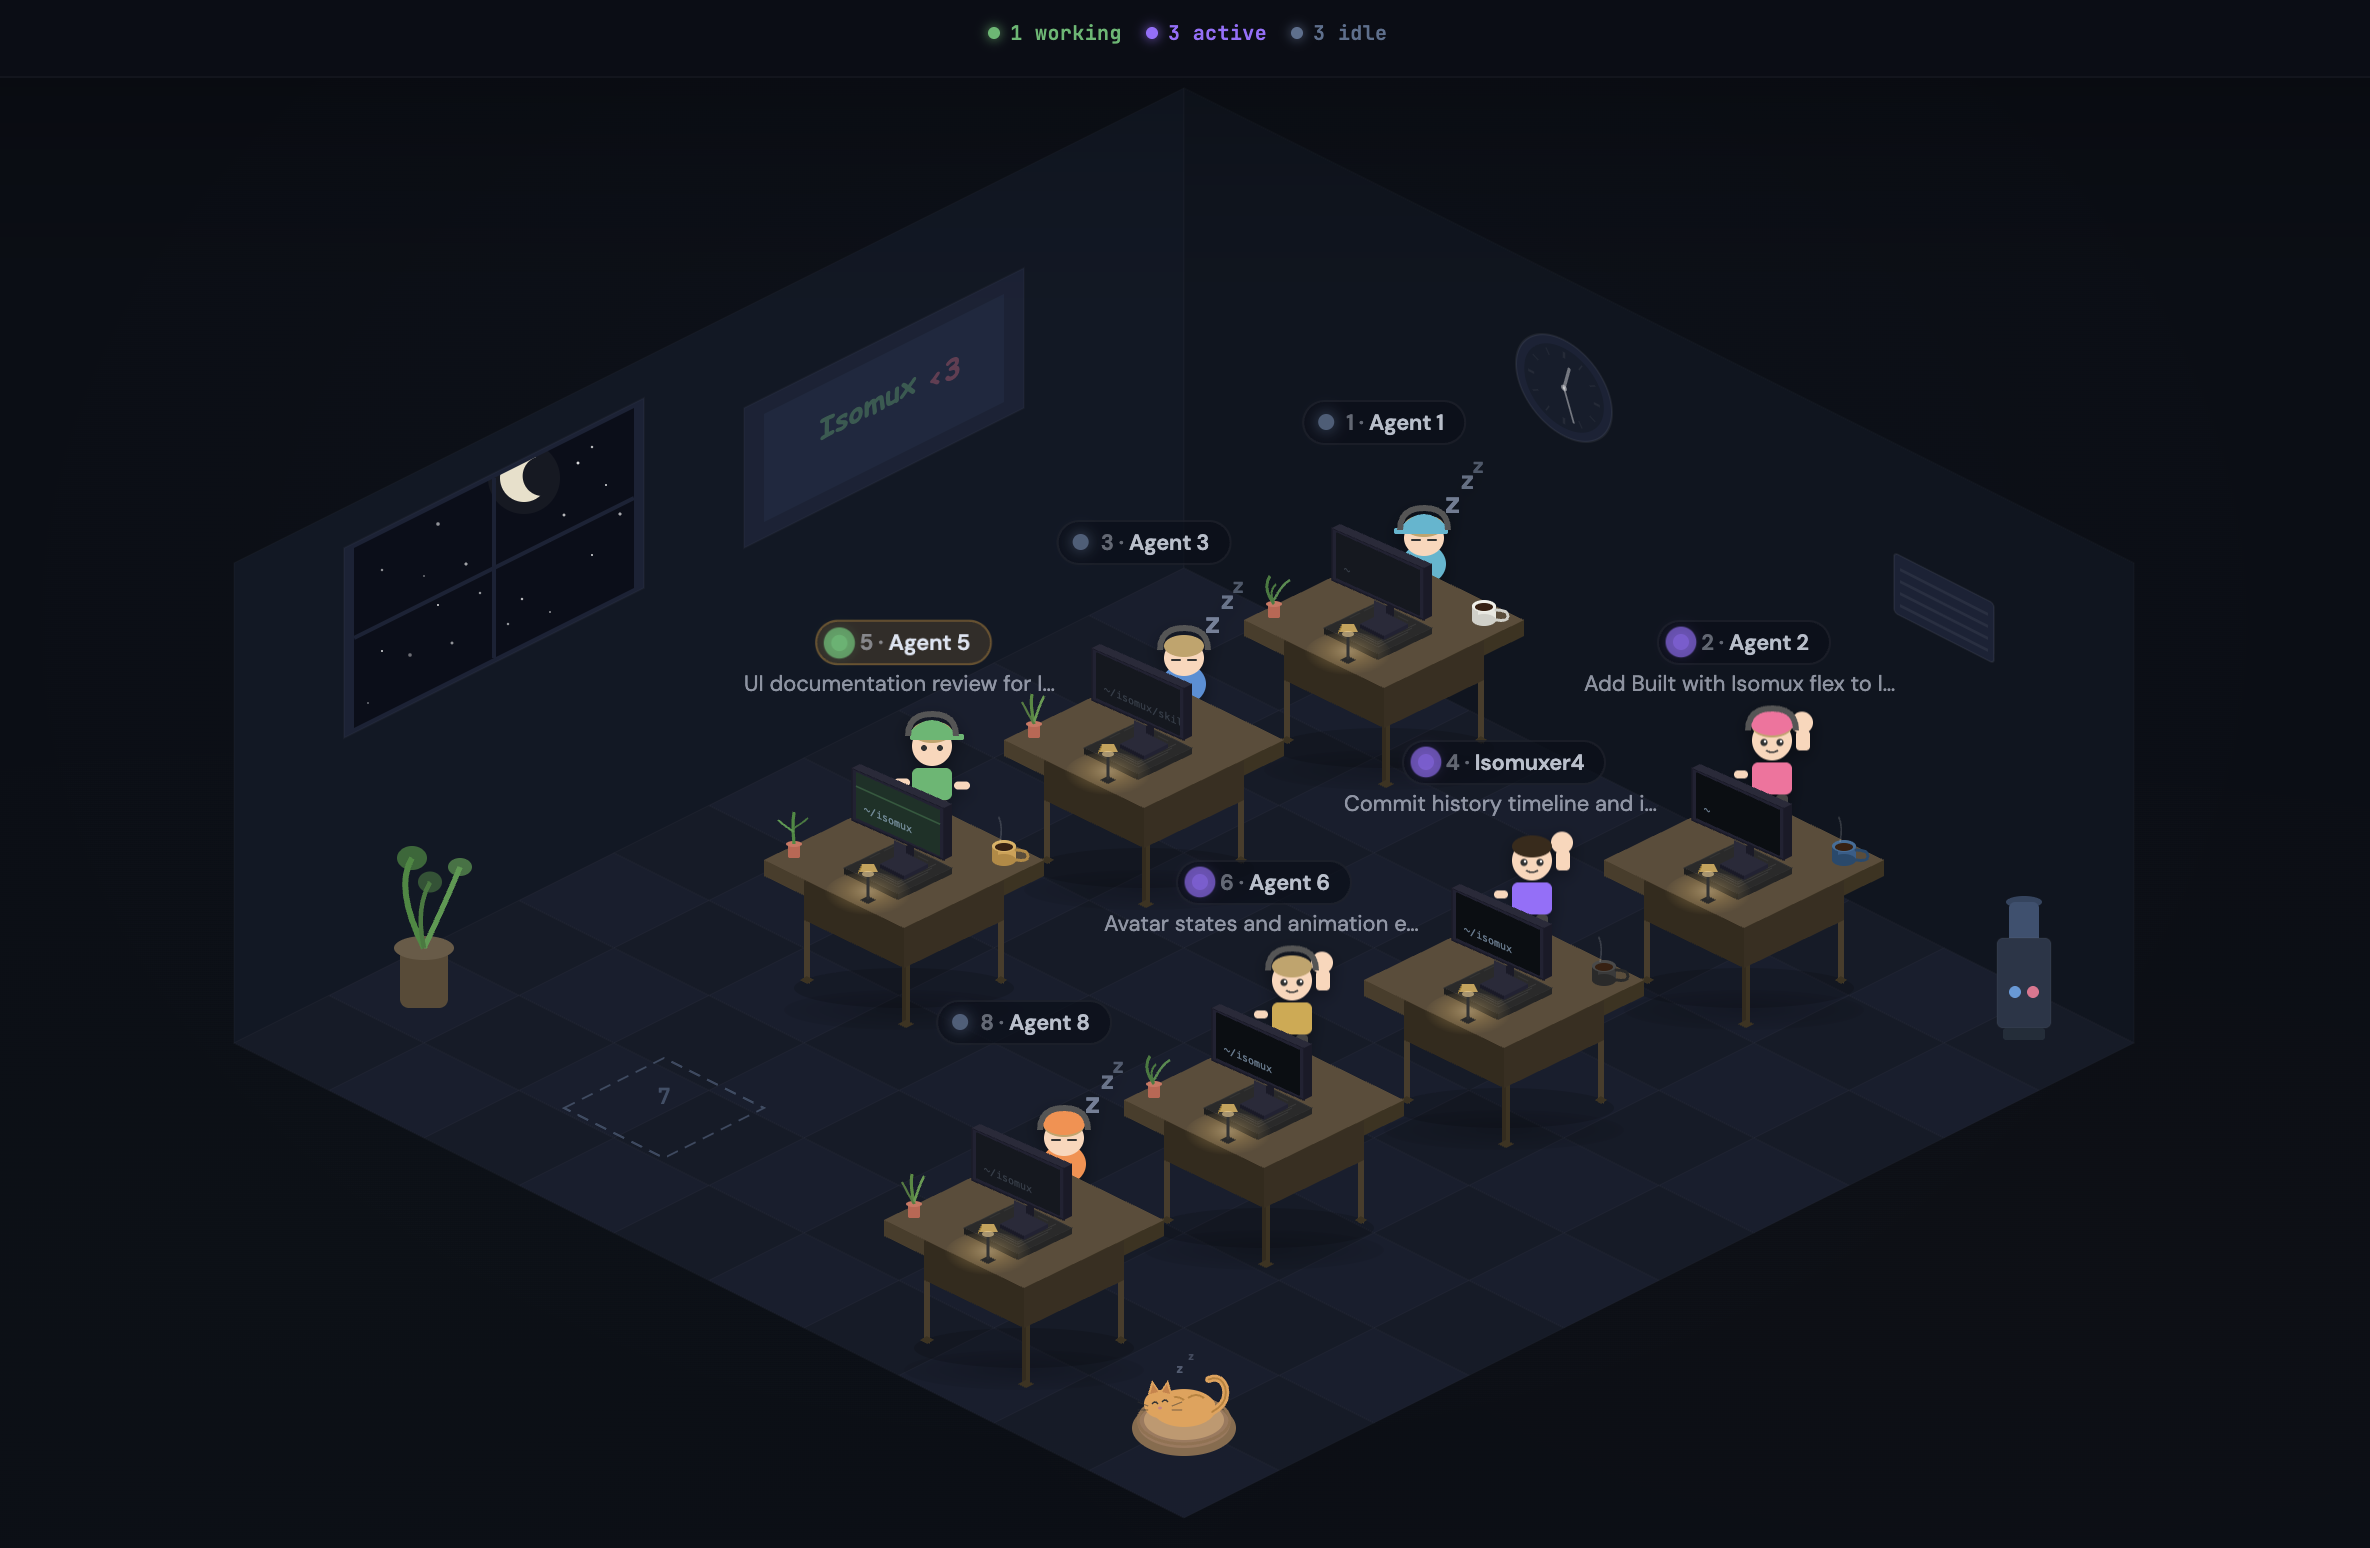
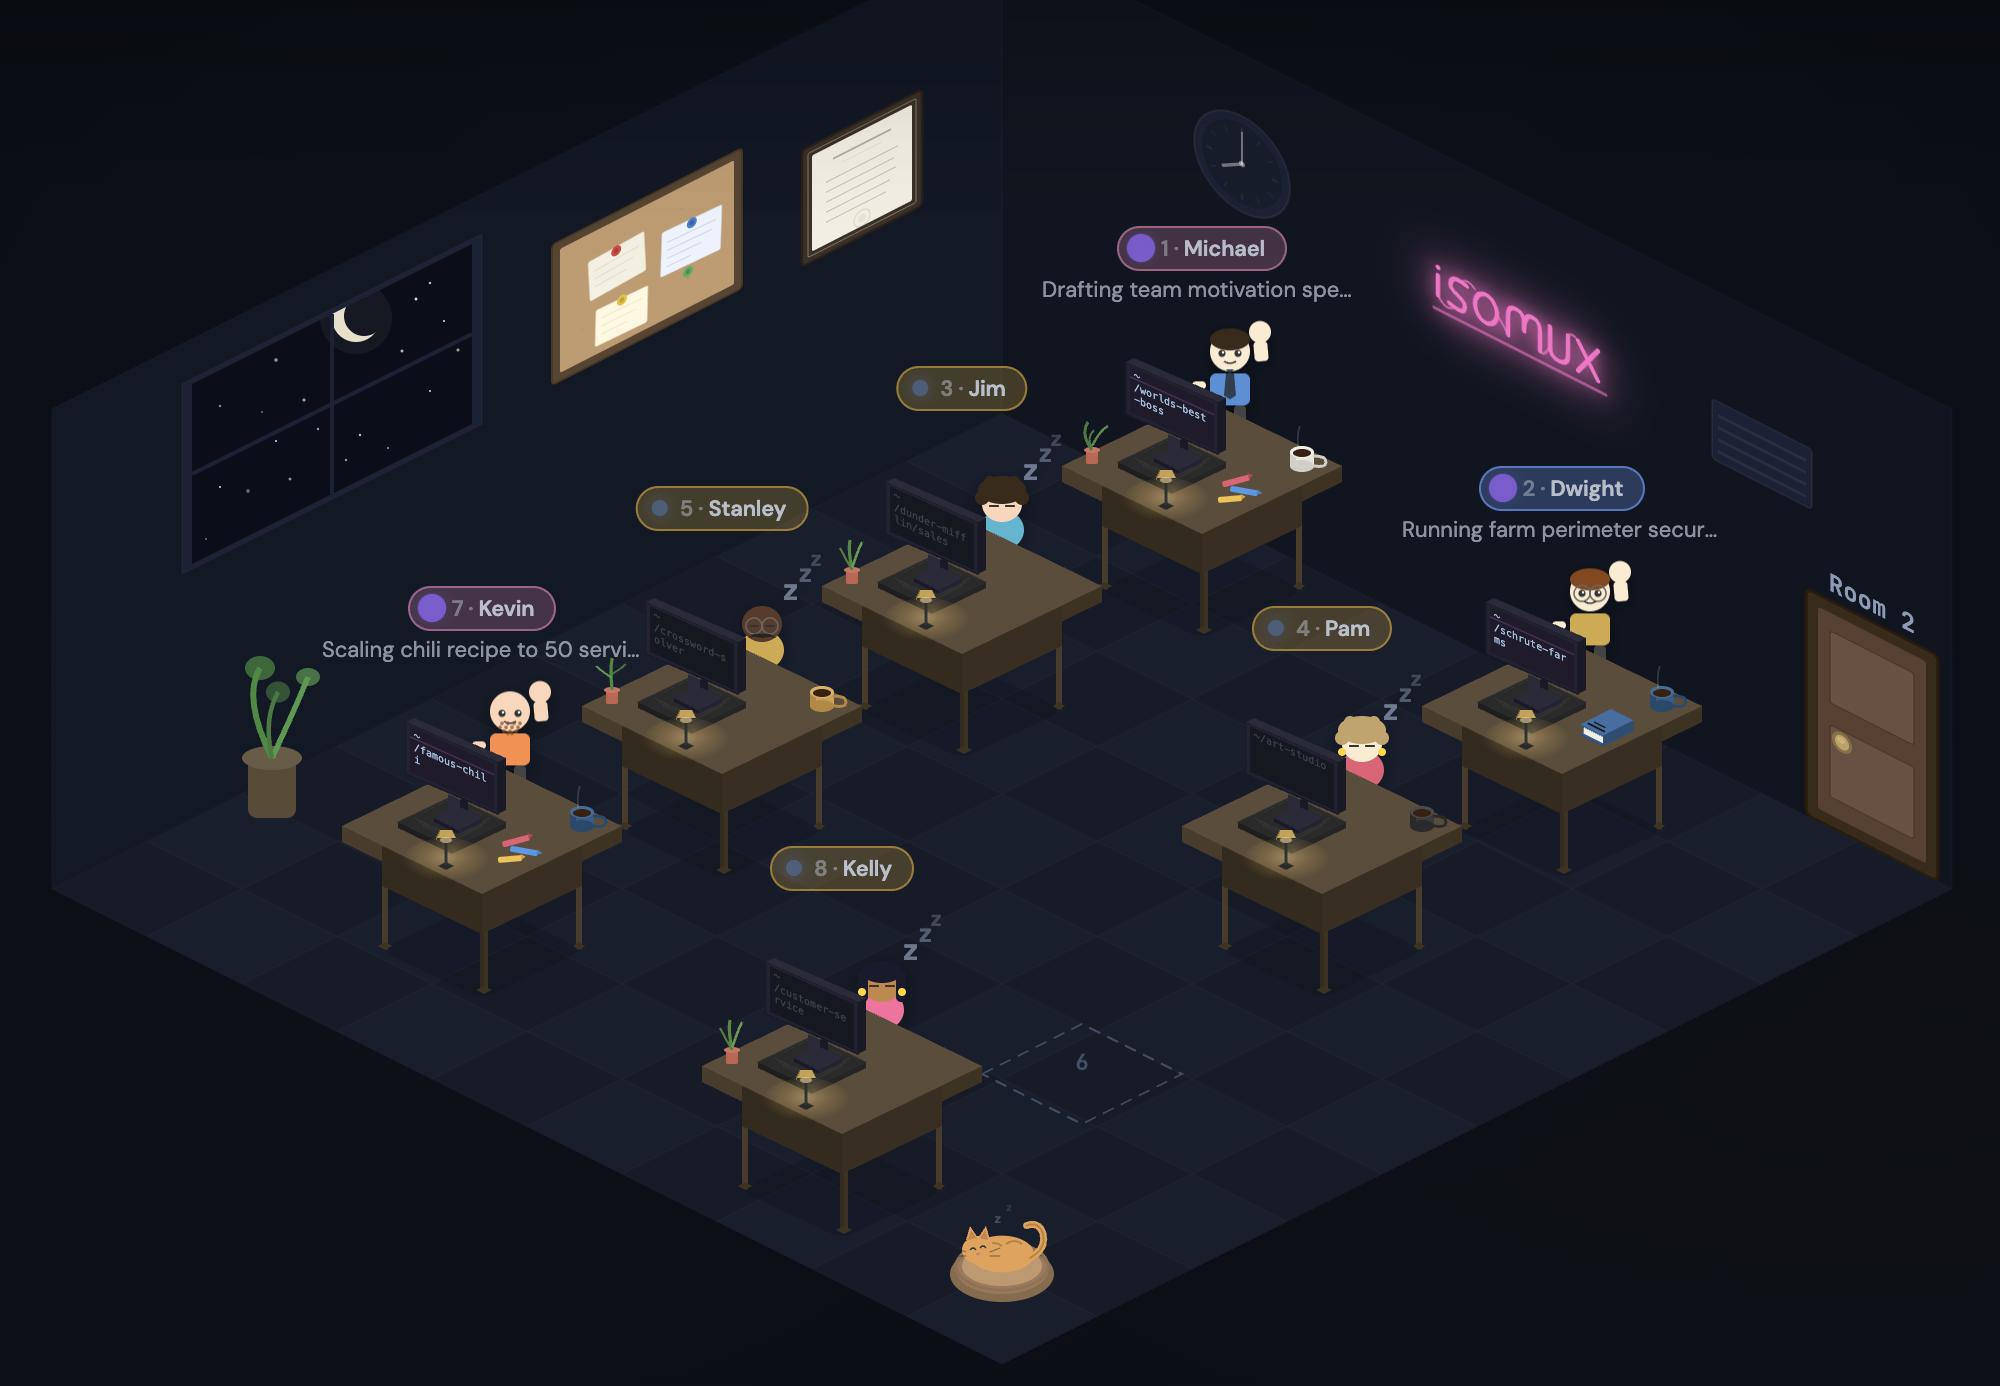
Update README screenshot to animated GIF and refresh PNG
Replace the static README image with a GIF showing the animated
office. Also refresh site/screenshot.png with a newer screenshot
that reflects current office styling (still used as OG image in
site/index.html, ui/demo.html, and site/demo/index.html).

diff --git a/README.md b/README.md
@@ -6,7 +6,7 @@ Free · open source · no cloud · no account
 
 See [isomux.com](https://isomux.com) for setup instructions and a live demo. Read the [blog post](https://nilmamano.com/blog/isomux) for a deeper dive.
 
-![Isomux office view](site/screenshot.png)
+![Isomux office view](site/office.gif)
 
 ## Feature Highlights
 
